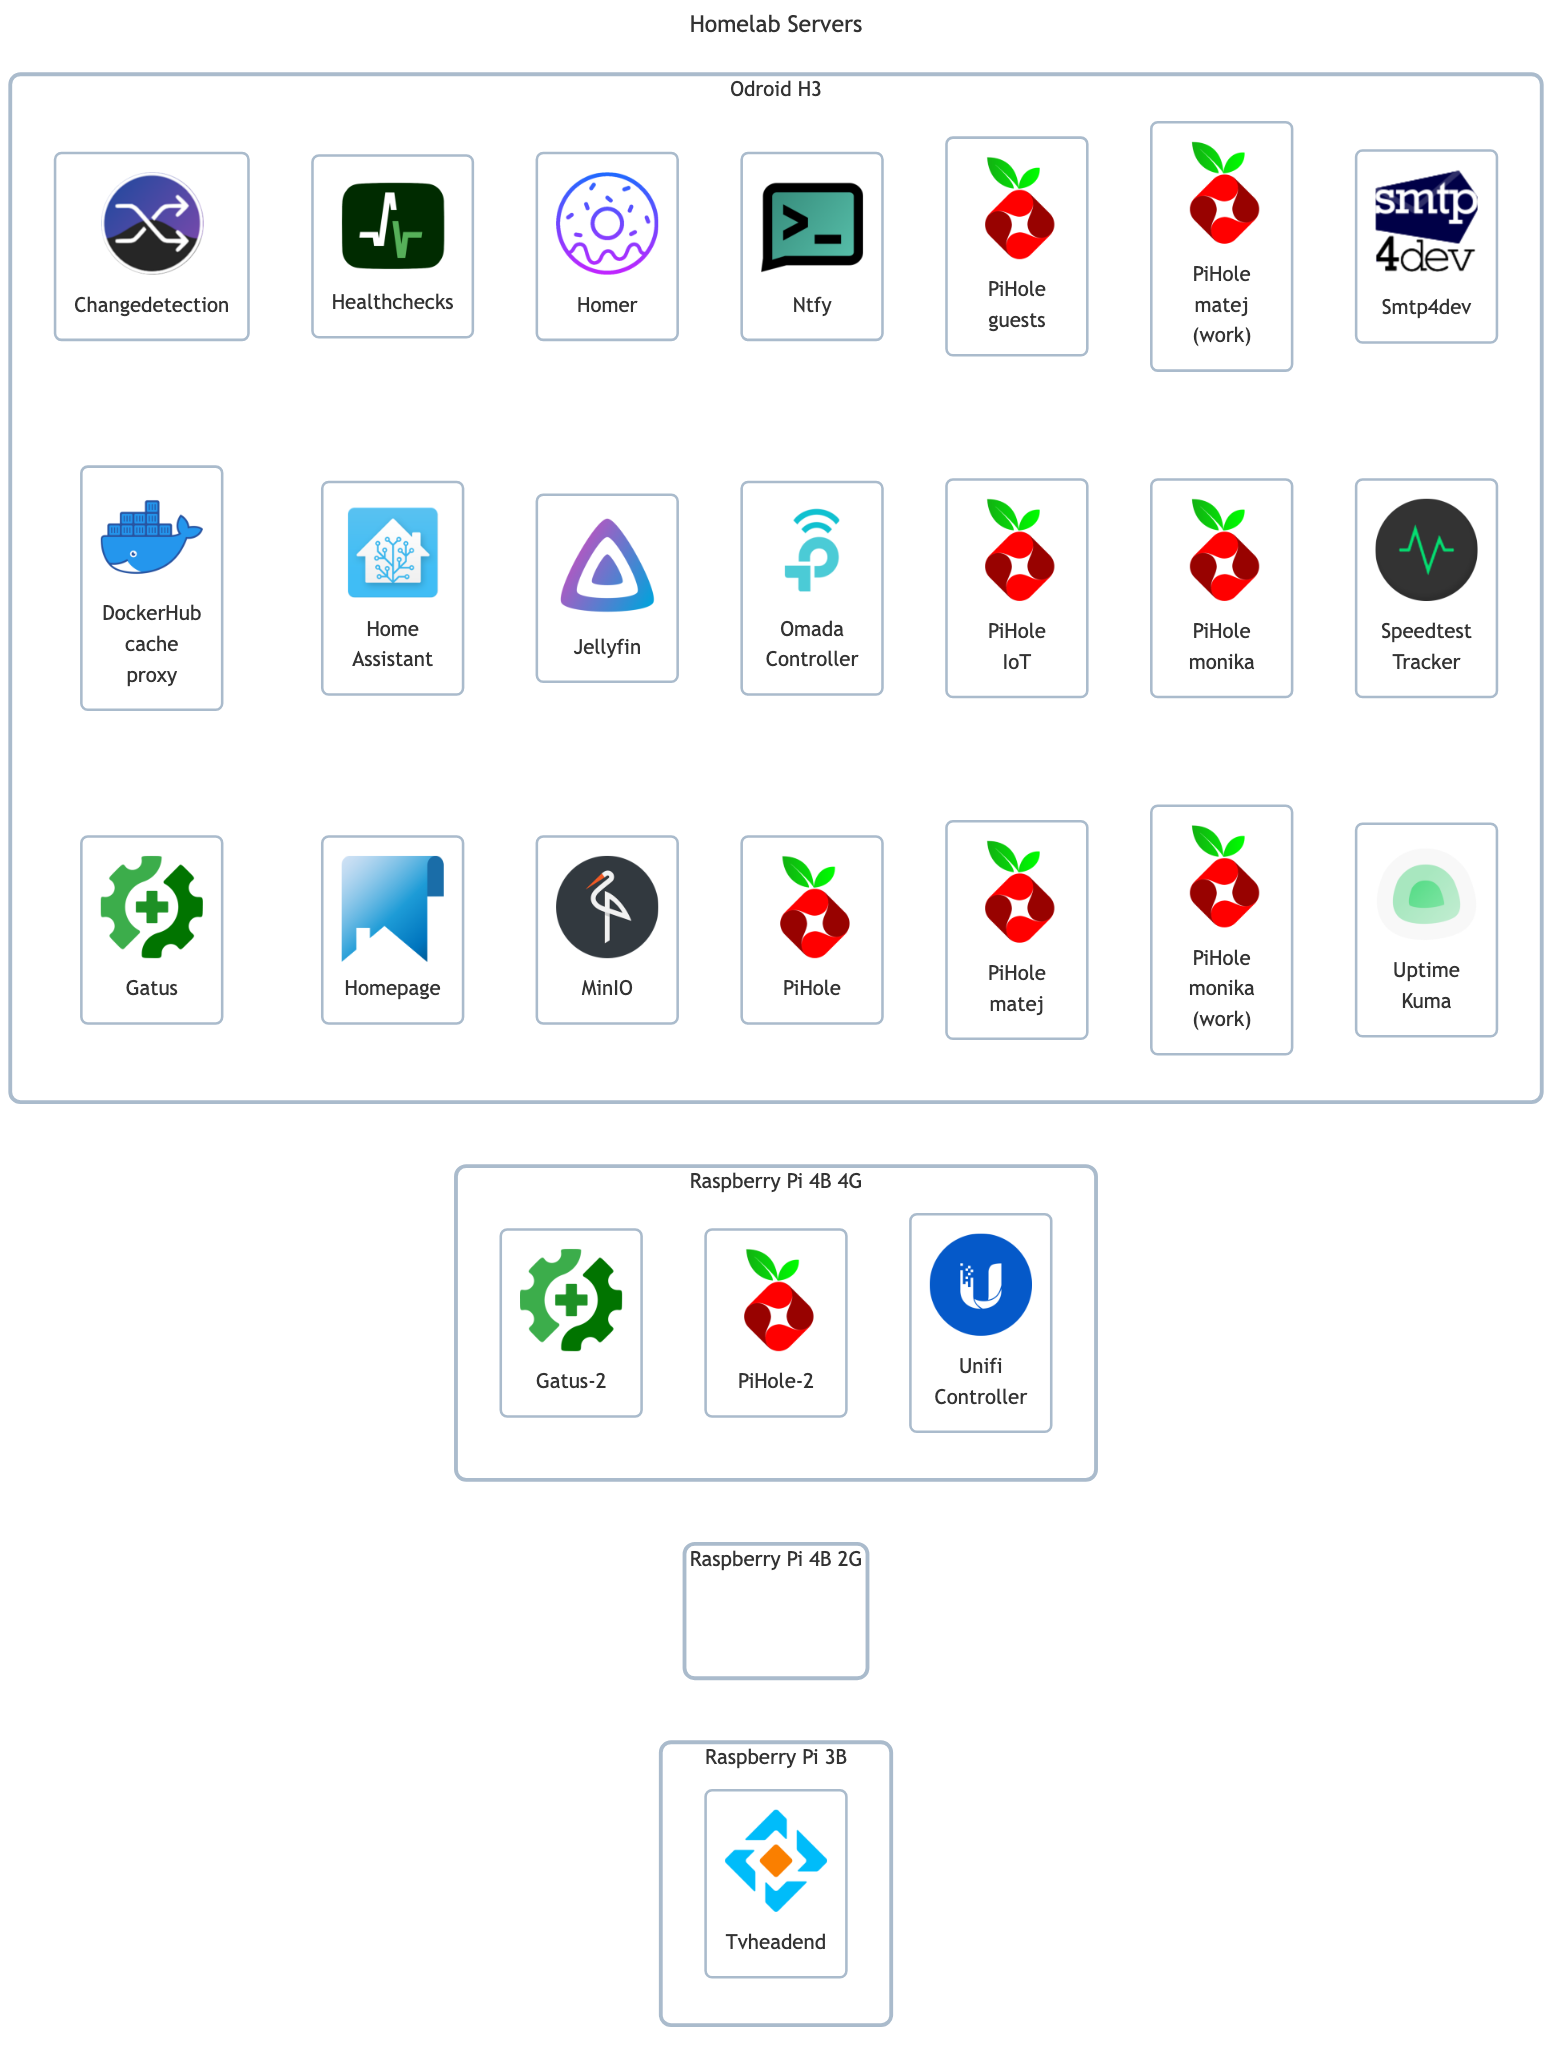
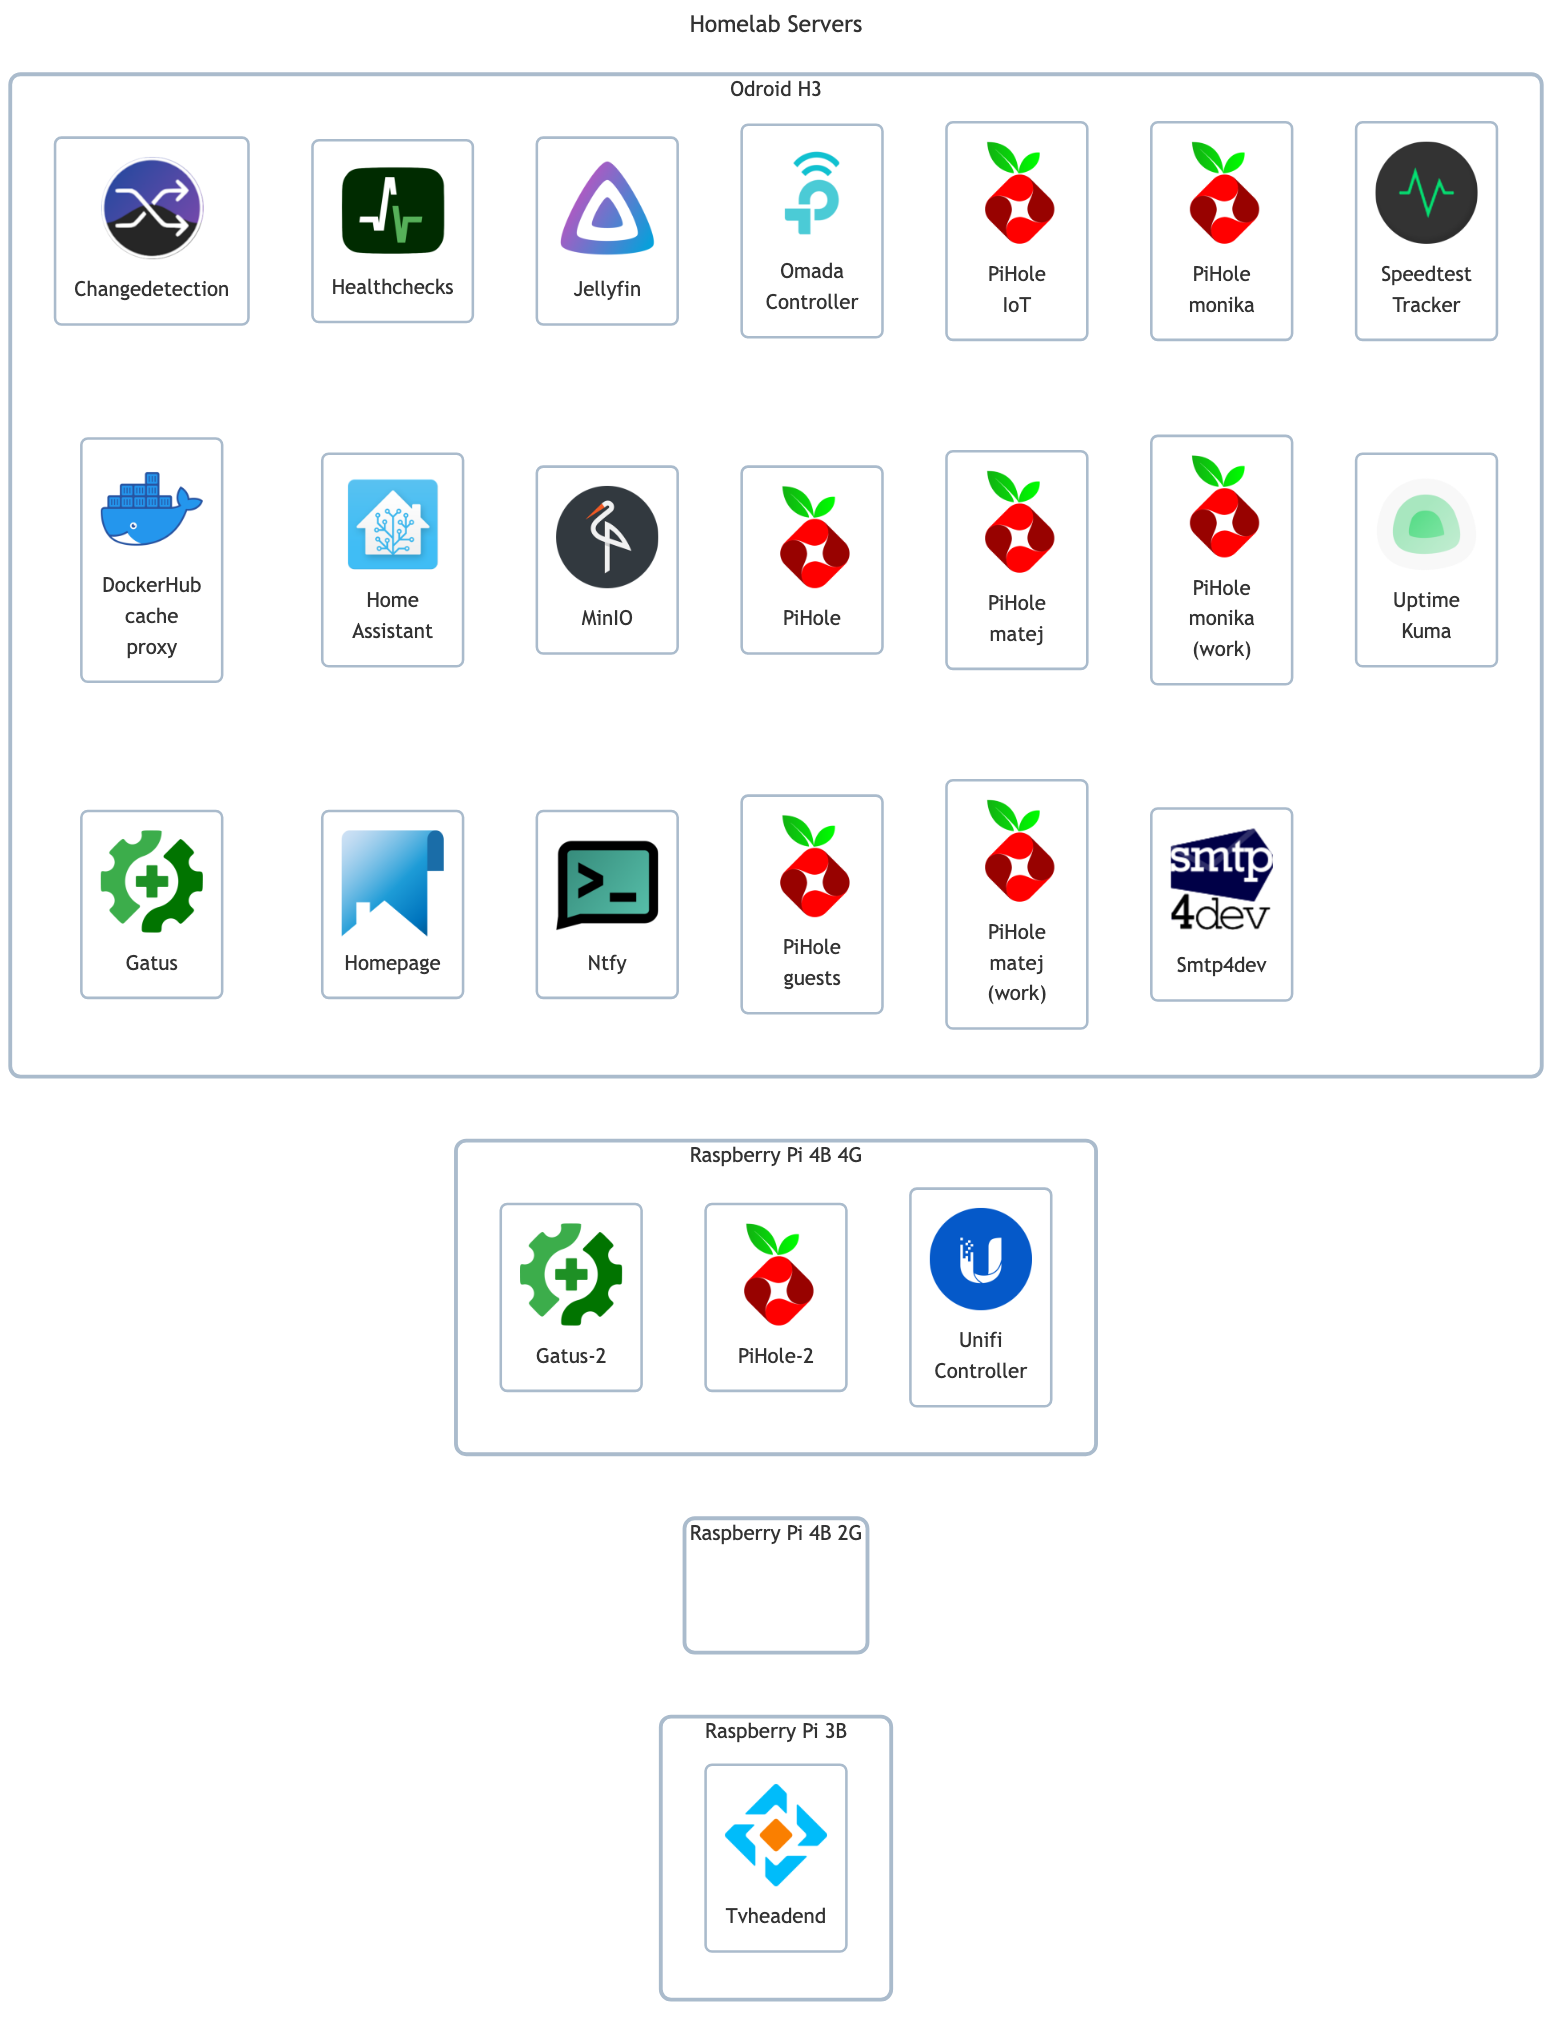
chore: remove support scripts/config for homer

diff --git a/docs/Checklist for new docker-apps.md b/docs/Checklist for new docker-apps.md
@@ -6,5 +6,6 @@
     - Add all usual scaffolding (certificate-manager, http-proxy, socket-proxy)
     - Specific scaffolding (litestream?, custom-setup?, custom-backup?)
 3. Add directory in a specific `servers/<server>/docker-apps/` that will use the app
-4. Check if the main image has a favicon in browser -> If not add a custom one
-5. Add this app to _homer_ dashboard
+4. Check if the main image has a favicon and it displays in web browser
+    - If not -> Add a custom one in the service image (preferred) or in apache proxy (fallback)
+5. Add this app to _homepage_ dashboard
